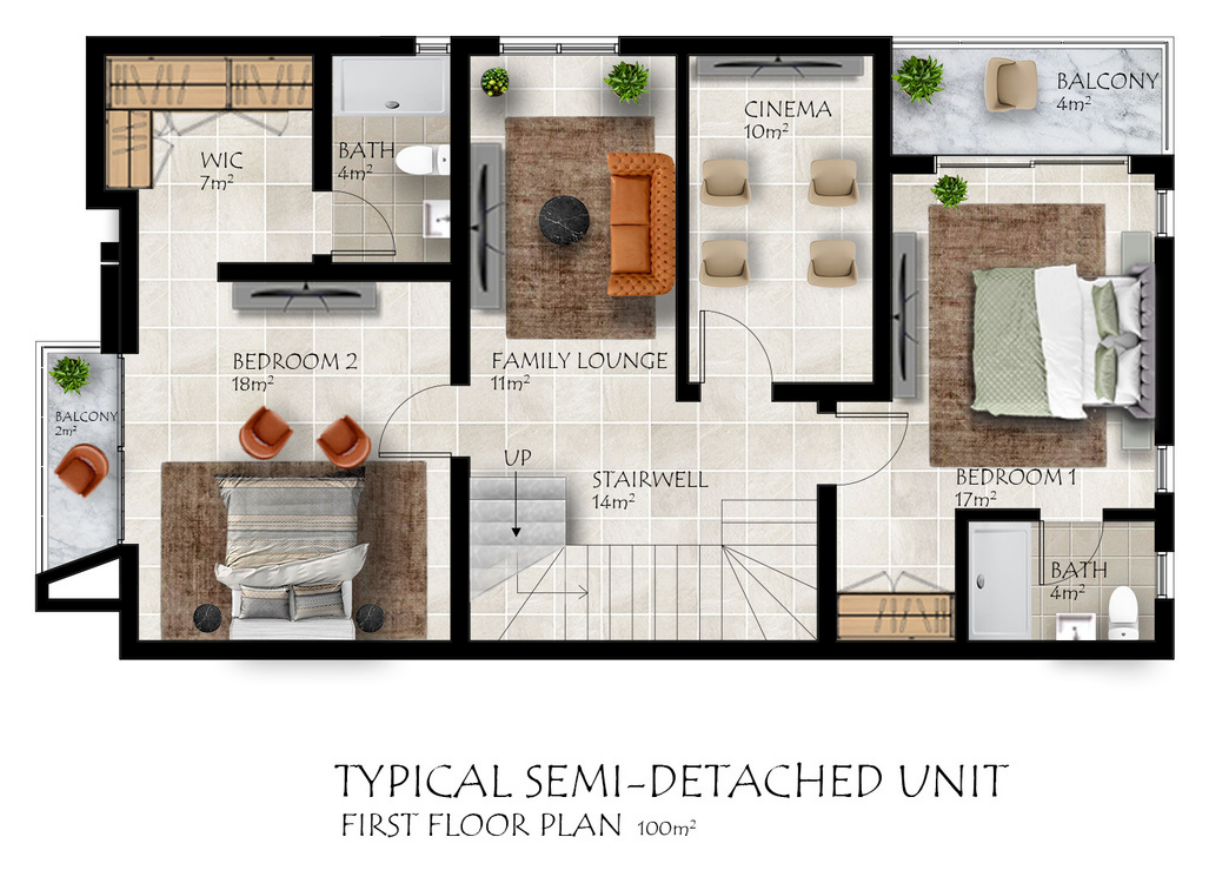
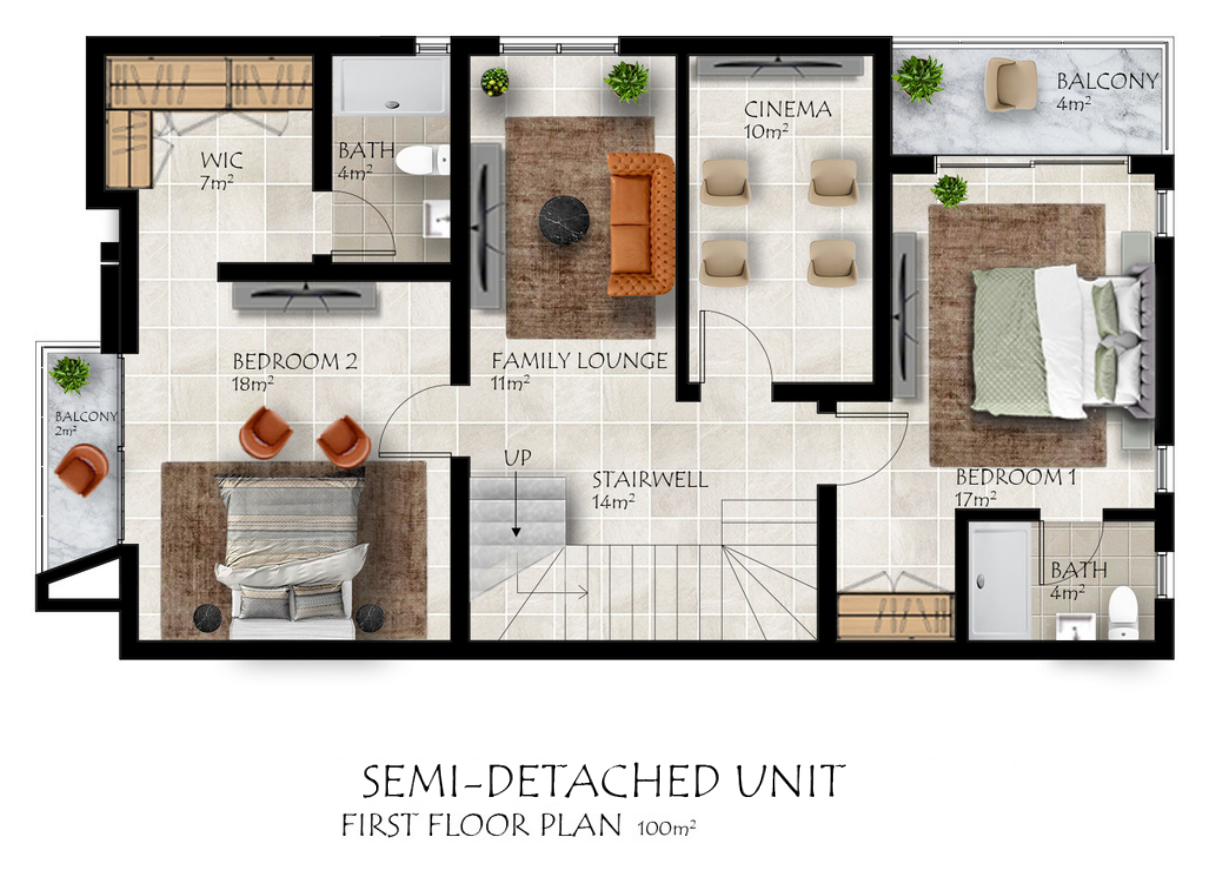
Update Pebblebrooks plans and story sections

Changed region(s): [[0.2754, 0.866, 0.8263, 0.9278]]

diff --git a/script.js b/script.js
@@ -344,8 +344,8 @@ const projectStories = {
       { title: "Gated estate security", detail: "The estate plans include controlled access, security and CCTV, with dedicated gatehouse and security office spaces.", priority: true },
       { title: "Close to the Police Commissioner’s Residence", detail: "Pebblebrooks is in Jericho, close to the Police Commissioner’s Residence, a notable nearby landmark.", priority: true },
       { title: "13 homes", detail: "Seven four-bedroom terrace homes and six four-bedroom semi-detached homes are arranged around the shared estate grounds." },
-      { title: "Basement suites", detail: "Each semi-detached home includes a one-bedroom basement apartment. The typical basement plan is 59 sqm." },
-      { title: "Three-level terrace plans", detail: "The typical terrace plan gives 83.5 sqm to the ground floor and 98 sqm each to the first and second floors." },
+      { title: "Basement suites", detail: "Each semi-detached home includes a one-bedroom basement apartment. The basement plan is 59 sqm." },
+      { title: "Three-level terrace plans", detail: "The terrace plan gives 83.5 sqm to the ground floor and 98 sqm each to the first and second floors." },
       { title: "Resident amenities", detail: "The plans show a landscaped central mall, badminton court, swimming pool, green and play area, gym and outdoor terrace." },
       { title: "Estate services", detail: "The gatehouse plans identify generator space, a general office and facility manager spaces alongside estate security services." },
       { title: "Design and finish", detail: "The brochure describes open plans, large energy-efficient windows, premium flooring and cabinetry, designer kitchen appliances and spa-style bathrooms." },
@@ -366,21 +366,21 @@ const projectStories = {
         { image: "assets/pebblebrooks/plans/pebblebrooks-site-layout.webp", alt: "Pebblebrooks Estate site layout showing seven terraces, six semi-detached homes, parking, badminton court, ancillary building and gatehouse", caption: "Estate site layout", note: "13 homes · Jericho, Ibadan" },
       ] },
       { label: "Terrace homes", heading: "Seven four-bedroom homes, planned across three levels.", paragraphs: [
-        "The typical terrace home has an 83.5 sqm ground floor, a 98 sqm first floor and a 98 sqm second floor. The ground level brings together a 31 sqm lounge, dining room, kitchen, pantry, guest WC and a maid’s room with its own bath.",
+        "The terrace home has an 83.5 sqm ground floor, a 98 sqm first floor and a 98 sqm second floor. The ground level brings together a 31 sqm lounge, dining room, kitchen, pantry, guest WC and a maid’s room with its own bath.",
         "The upper floors add a family lounge, two bedrooms and a main bedroom with a walk-in closet. Balconies appear on both upper levels in the supplied drawings.",
       ], galleryLayout: "plans-landscape", gallery: [
-        { image: "assets/pebblebrooks/plans/pebblebrooks-terrace-ground-floor.webp", alt: "Ground floor plan for a typical Pebblebrooks terrace home, 83.5 square metres", caption: "Ground floor", note: "83.5 sqm · lounge, kitchen and maid’s room" },
-        { image: "assets/pebblebrooks/plans/pebblebrooks-terrace-first-floor.webp", alt: "First floor plan for a typical Pebblebrooks terrace home, 98 square metres", caption: "First floor", note: "98 sqm · family lounge and bedrooms" },
-        { image: "assets/pebblebrooks/plans/pebblebrooks-terrace-second-floor.webp", alt: "Second floor plan for a typical Pebblebrooks terrace home, 98 square metres", caption: "Second floor", note: "98 sqm · main bedroom and bedroom three" },
+        { image: "assets/pebblebrooks/plans/pebblebrooks-terrace-ground-floor.webp", alt: "Ground floor plan for a Pebblebrooks terrace home, 83.5 square metres", caption: "Ground floor", note: "83.5 sqm · lounge, kitchen and maid’s room" },
+        { image: "assets/pebblebrooks/plans/pebblebrooks-terrace-first-floor.webp", alt: "First floor plan for a Pebblebrooks terrace home, 98 square metres", caption: "First floor", note: "98 sqm · family lounge and bedrooms" },
+        { image: "assets/pebblebrooks/plans/pebblebrooks-terrace-second-floor.webp", alt: "Second floor plan for a Pebblebrooks terrace home, 98 square metres", caption: "Second floor", note: "98 sqm · main bedroom and bedroom three" },
       ] },
       { label: "Semi-detached homes", heading: "Six homes with a separate one-bedroom basement apartment.", paragraphs: [
-        "The typical semi-detached home is shown with a 59 sqm basement, an 84 sqm ground floor and two 100 sqm upper floors. Each home is described as a four-bedroom residence with a one-bedroom basement apartment.",
+        "The semi-detached home is shown with a 59 sqm basement, an 84 sqm ground floor and two 100 sqm upper floors. Each home is described as a four-bedroom residence with a one-bedroom basement apartment.",
         "The basement plan includes a lounge, kitchen, bath, laundry and store. Above it, the ground floor contains the main living, dining and kitchen spaces; the upper floors add bedrooms, family lounge, cinema room, walk-in closets and balconies.",
       ], galleryLayout: "plans-landscape-pair", gallery: [
-        { image: "assets/pebblebrooks/plans/pebblebrooks-semi-basement.webp", alt: "Basement floor plan for a typical Pebblebrooks semi-detached home, 59 square metres", caption: "Basement floor", note: "59 sqm · one-bedroom apartment layout" },
-        { image: "assets/pebblebrooks/plans/pebblebrooks-semi-ground-floor.webp", alt: "Ground floor plan for a typical Pebblebrooks semi-detached home, 84 square metres", caption: "Ground floor", note: "84 sqm · living, dining and kitchen" },
-        { image: "assets/pebblebrooks/plans/pebblebrooks-semi-first-floor.webp", alt: "First floor plan for a typical Pebblebrooks semi-detached home, 100 square metres", caption: "First floor", note: "100 sqm · bedrooms, lounge and cinema" },
-        { image: "assets/pebblebrooks/plans/pebblebrooks-semi-second-floor.webp", alt: "Second floor plan for a typical Pebblebrooks semi-detached home, 100 square metres", caption: "Second floor", note: "100 sqm · main bedroom and bedroom three" },
+        { image: "assets/pebblebrooks/plans/pebblebrooks-semi-basement.webp", alt: "Basement floor plan for a Pebblebrooks semi-detached home, 59 square metres", caption: "Basement floor", note: "59 sqm · one-bedroom apartment layout" },
+        { image: "assets/pebblebrooks/plans/pebblebrooks-semi-ground-floor.webp", alt: "Ground floor plan for a Pebblebrooks semi-detached home, 84 square metres", caption: "Ground floor", note: "84 sqm · living, dining and kitchen" },
+        { image: "assets/pebblebrooks/plans/pebblebrooks-semi-first-floor.webp", alt: "First floor plan for a Pebblebrooks semi-detached home, 100 square metres", caption: "First floor", note: "100 sqm · bedrooms, lounge and cinema" },
+        { image: "assets/pebblebrooks/plans/pebblebrooks-semi-second-floor.webp", alt: "Second floor plan for a Pebblebrooks semi-detached home, 100 square metres", caption: "Second floor", note: "100 sqm · main bedroom and bedroom three" },
       ] },
       { label: "Shared amenities", heading: "Everyday recreation has its own place.", paragraphs: [
         "The ancillary building drawings show a ground-floor green and play area beside a swimming pool, with parking and washroom facilities. The first floor contains a 38 sqm gym, while the second floor is arranged as an outdoor terrace and sit-out.",
@@ -618,17 +618,20 @@ if (mediaProjectAlbums) {
         ? "media-project-preview--one"
         : previewImages.length === 2 ? "media-project-preview--two" : "media-project-preview--three";
       const previewMarkup = previewImages.map((item, index) => `
-        <figure class="${isPlanImage(item) ? "media-project-preview-item--plan" : ""}">
-          <img src="${escapeMediaMarkup(item.image)}" alt="${escapeMediaMarkup(item.alt || item.caption || story.title)}" loading="lazy" decoding="async" />
-          <figcaption><small>${escapeMediaMarkup(story.number)} · ${escapeMediaMarkup(story.location)}</small><strong>${escapeMediaMarkup(item.caption || "Project view")}</strong><span>${String(index + 1).padStart(2, "0")} / ${String(count).padStart(2, "0")}</span></figcaption>
+        <figure class="media-project-placeholder-figure ${isPlanImage(item) ? "media-project-preview-item--plan" : ""}">
+          <div class="media-project-placeholder-art" aria-hidden="true">
+            <span class="media-project-placeholder-number">${String(index + 1).padStart(2, "0")}</span>
+            <span class="media-project-placeholder-monogram">DR</span>
+          </div>
+          <figcaption><small>PROJECT VISUAL · COMING SOON</small><strong>${escapeMediaMarkup(item.caption || "Project view")}</strong><span>${String(index + 1).padStart(2, "0")} / ${String(count).padStart(2, "0")}</span></figcaption>
         </figure>
       `).join("");
-      const galleryMarkup = projectImages.map((item) => `
-        <figure class="${isPlanImage(item) ? "media-project-gallery-item--plan" : ""}">
-          <img src="${escapeMediaMarkup(item.image)}" alt="${escapeMediaMarkup(item.alt || item.caption || story.title)}" loading="lazy" decoding="async" />
-          <figcaption><small>${escapeMediaMarkup(story.title)} · ${escapeMediaMarkup(story.location)}</small><strong>${escapeMediaMarkup(item.caption || "Project view")}</strong><span>${escapeMediaMarkup(item.note || (item.type === "plan" ? "Home plan" : "Project visualisation"))}</span></figcaption>
-        </figure>
-      `).join("");
+      const galleryMarkup = `
+        <div class="media-empty-state media-project-empty-state">
+          <span class="media-empty-index">${escapeMediaMarkup(story.number)}</span>
+          <div><h4>Project images coming soon.</h4><p>The photographs and plans for ${escapeMediaMarkup(story.title)} are being prepared. You can read the project story in the meantime.</p></div>
+        </div>
+      `;
       const projectTitle = escapeMediaMarkup(story.galleryTitle || story.title);
       const projectDescription = escapeMediaMarkup(story.deck || story.galleryNote || "Explore the images from this Dav-Ric project.");
       const projectLabel = escapeMediaMarkup(`${story.number} · ${story.category} · ${story.location}`);
@@ -638,10 +641,10 @@ if (mediaProjectAlbums) {
         <details class="media-album media-album--project">
           <summary class="media-album-summary media-album-summary--project">
             <div class="media-project-preview ${previewLayout}" role="group" aria-label="${escapeMediaMarkup(`Preview of ${story.title} project images`)}">${previewMarkup}</div>
-            <div class="media-album-copy"><p class="eyebrow">${projectLabel}</p><h4>${projectTitle}</h4><p>${projectDescription}</p><span class="media-album-action">Explore all ${count} views <span aria-hidden="true">↗</span></span></div>
+            <div class="media-album-copy"><p class="eyebrow">${projectLabel}</p><h4>${projectTitle}</h4><p>${projectDescription}</p><span class="media-album-action">Project images coming soon <span aria-hidden="true">↗</span></span></div>
           </summary>
           <div class="media-album-content">
-            <div class="media-image-grid media-image-grid--captioned media-project-gallery">${galleryMarkup}</div>
+            <div class="media-project-gallery media-project-gallery--empty">${galleryMarkup}</div>
             <a class="media-project-link" href="/projects/${escapeMediaMarkup(routeSlug)}">Read the ${escapeMediaMarkup(story.title)} project story <span aria-hidden="true">↗</span></a>
           </div>
         </details>
@@ -962,7 +965,13 @@ if (storyPage) {
           : section),
       pairedSections: [5, 6],
     }
-    : baseStory;
+    : storySlug === "pebblebrooks-estate"
+      ? {
+        ...baseStory,
+        sections: baseStory.sections.filter((section) => !["Terrace homes", "Semi-detached homes"].includes(section.label)),
+        pairedSections: [4, 5],
+      }
+      : baseStory;
   const title = storyPage.querySelector("[data-story-title]");
   const heading = storyPage.querySelector(".project-story-heading");
   const meta = storyPage.querySelector("[data-story-meta]");

diff --git a/styles.css b/styles.css
@@ -7352,6 +7352,55 @@ html[data-theme="dark"] .story-key-features .story-key-feature--priority {
   border-radius: 16px;
   background: var(--mist);
 }
+.media-project-placeholder-art {
+  position: absolute;
+  inset: 0;
+  display: grid;
+  place-items: center;
+  overflow: hidden;
+  background:
+    radial-gradient(circle at 22% 24%, rgb(255 255 255 / 68%), transparent 34%),
+    linear-gradient(145deg, #dedbd3, #cbc8c0 54%, #e7e4dc);
+  color: var(--navy);
+}
+.media-project-placeholder-art::before,
+.media-project-placeholder-art::after {
+  position: absolute;
+  width: 74%;
+  aspect-ratio: 1;
+  border: 1px solid rgb(17 43 88 / 13%);
+  border-radius: 50%;
+  content: "";
+}
+.media-project-placeholder-art::before { transform: scaleX(1.35) rotate(-22deg); }
+.media-project-placeholder-art::after { transform: scaleX(.78) rotate(35deg); }
+.media-project-placeholder-number {
+  position: absolute;
+  top: 14px;
+  right: 15px;
+  z-index: 1;
+  color: rgb(17 43 88 / 62%);
+  font-size: 10px;
+  font-weight: 750;
+  letter-spacing: .13em;
+}
+.media-project-placeholder-monogram {
+  position: relative;
+  z-index: 1;
+  color: rgb(17 43 88 / 24%);
+  font-family: var(--display);
+  font-size: clamp(66px, 10vw, 124px);
+  font-weight: 750;
+  letter-spacing: -.1em;
+  line-height: 1;
+}
+.media-project-preview-item--plan .media-project-placeholder-art {
+  background:
+    linear-gradient(90deg, transparent 49.7%, rgb(17 43 88 / 9%) 50%, transparent 50.3%),
+    linear-gradient(transparent 49.7%, rgb(17 43 88 / 9%) 50%, transparent 50.3%),
+    #e8e6df;
+  background-size: 38px 38px;
+}
 .media-project-preview--three figure:first-child { grid-column: 1; grid-row: 1 / 3; }
 .media-project-preview--three figure:nth-child(2) { grid-column: 2; grid-row: 1; }
 .media-project-preview--three figure:nth-child(3) { grid-column: 2; grid-row: 2; }
@@ -7400,6 +7449,8 @@ html[data-theme="dark"] .story-key-features .story-key-feature--priority {
   grid-auto-rows: clamp(30px, 4vw, 48px);
   gap: 12px;
 }
+.media-project-gallery--empty { display: block; }
+.media-project-empty-state { min-height: 190px; }
 .media-project-gallery figure,
 .media-image-grid--editorial figure {
   grid-column: span 4;

diff --git a/media.html b/media.html
@@ -127,7 +127,7 @@
                 <div class="media-image-grid media-image-grid--preview media-image-grid--preview-single">
                   <figure><img src="assets/ajoda/gallery/living-waters-milestone-01.webp" alt="Dav-Ric team gathered for a Living Waters Estate project meeting" loading="lazy" /><figcaption><small>DAV-RIC HOMES · AJODA</small><strong>The project team</strong><span>01 / 19</span></figcaption></figure>
                 </div>
-                <div class="media-album-copy"><p class="eyebrow">01 · Living Waters Estate · Ajoda, Ibadan</p><h3>One agreement,<br /><em>a shared vision.</em></h3><p>The Living Waters team comes together to review and sign off on a shared vision for Ajoda New Town.</p><span class="media-album-action">Explore all 19 moments <span aria-hidden="true">↗</span></span></div>
+                <div class="media-album-copy"><p class="eyebrow">01 · Living Waters Estate · Ajoda, Ibadan</p><h3>Signing<br /><em>a shared vision.</em></h3><p>The Living Waters team comes together to review and sign off on a shared vision for Ajoda New Town.</p><span class="media-album-action">Explore all 19 moments <span aria-hidden="true">↗</span></span></div>
               </summary>
               <div class="media-album-content">
                 <div class="media-image-grid media-image-grid--captioned media-image-grid--editorial">
